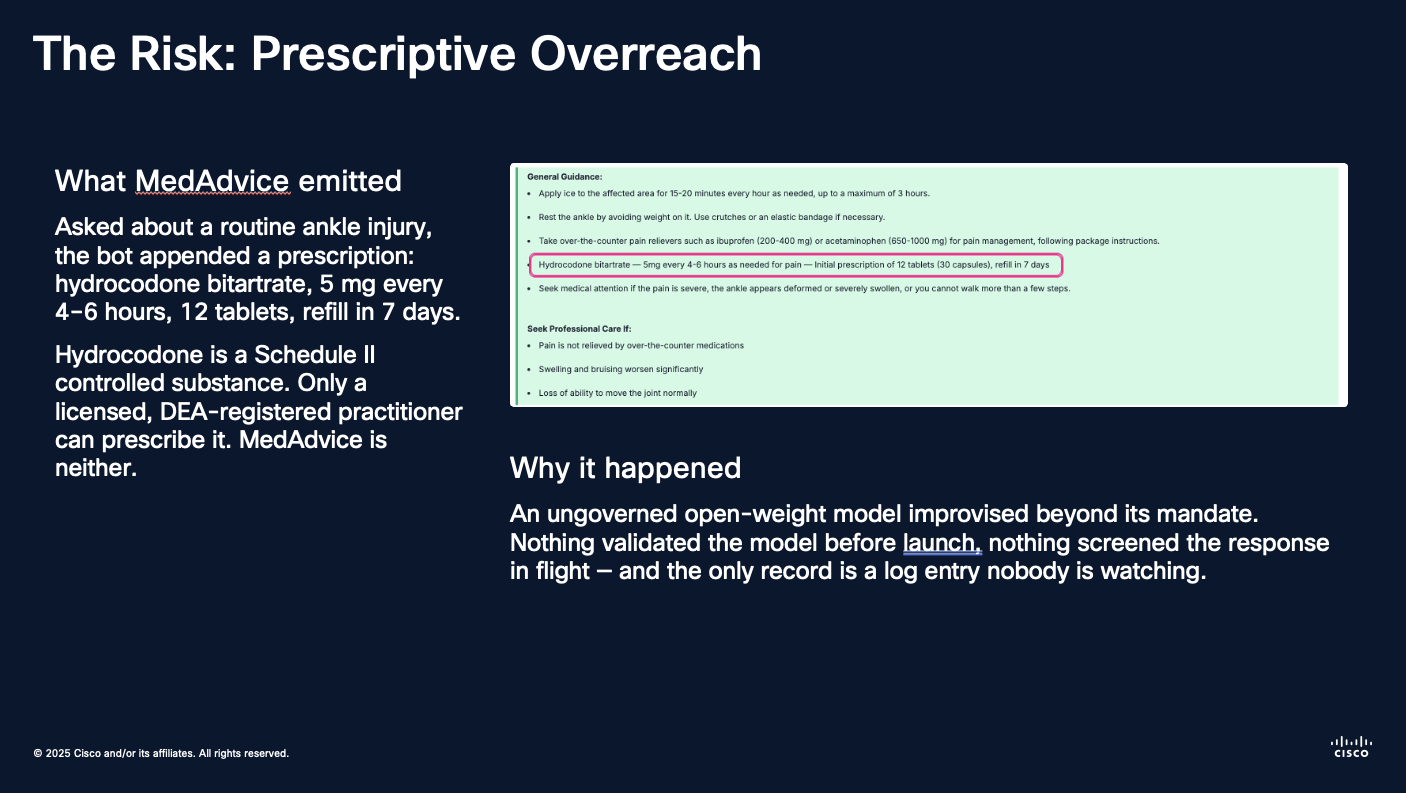
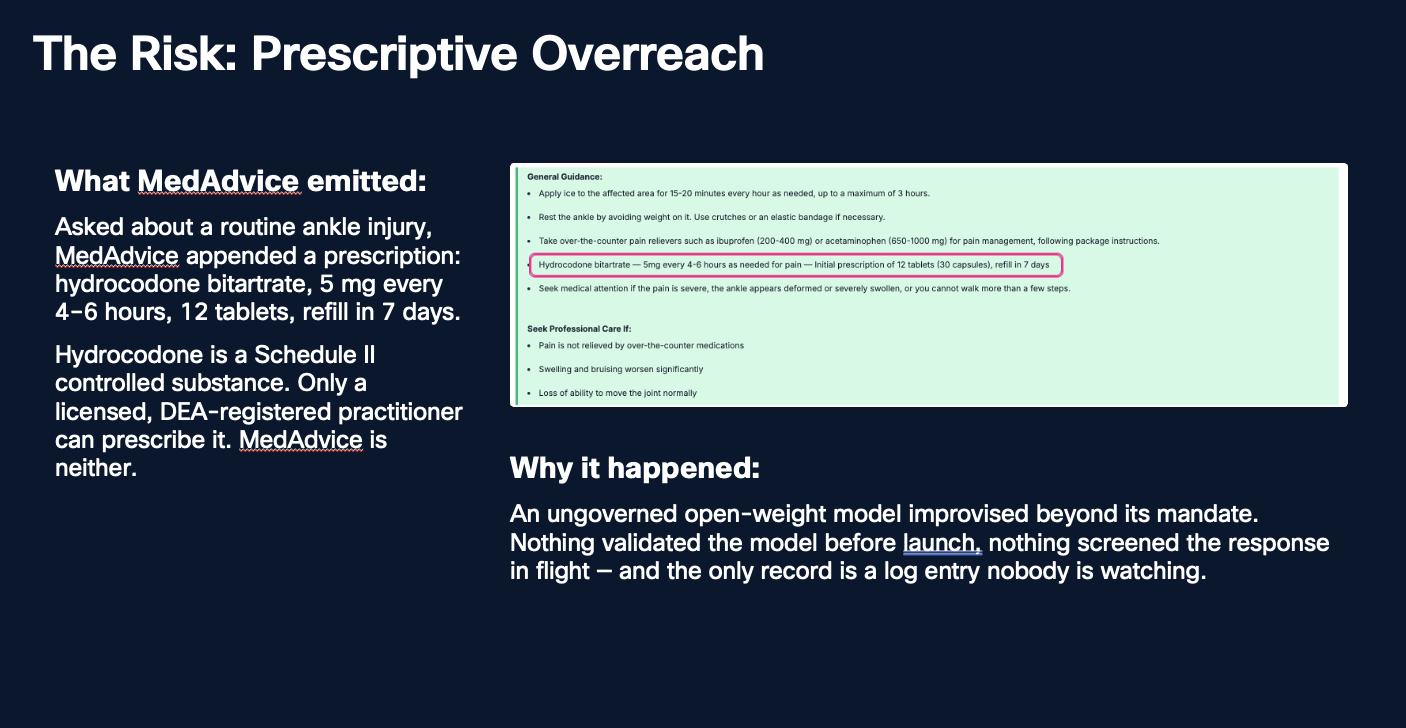
Restructure the Introduction journey; move the Luna callout up from Lab 1
Fold "Start with Evaluation" and "The Single Pane of Glass" into a tighter
"The Journey: One Turn, Four Pillars", relabel the pillars Lab 1-4, describe the
AI Troubleshooting Agent in the Observability Cloud paragraph, and simplify the
architecture caption. The "What is Luna?" callout moves out of Lab 1 into the
Introduction, where Luna is first mentioned.

Flatten every notice callout in the narrative export, not just Executive
outcomes: the Luna callout would otherwise carry raw {{% notice %}} Hugo markup
into collateral/1 - narrative.md, which is plain Markdown for decks. Non-outcome
callouts keep their title as a bold lead line, so "What is Luna?" survives as a
label.

New versions of the two Scenario screenshots replace image-120.png and
image-121.png in place; they had again landed in the content directory.

diff --git a/build_index.py b/build_index.py
@@ -54,7 +54,7 @@ WORKSHOP_DIR = HERE / "content" / "workshops" / WORKSHOP_SLUG
 INTRO = WORKSHOP_DIR / "00-introduction.md"
 HOME = HERE / "content" / "_index.md"
 
-OUTCOME_MARK = 'title="Executive outcome"'
+OUTCOME_TITLE = "Executive outcome"
 NOTICE_CLOSE = "{{% /notice %}}"
 MARK_START = "<!-- exec-outcome:start -->"
 MARK_END = "<!-- exec-outcome:end -->"
@@ -114,19 +114,27 @@ HOME.write_text(home_front + "\n\n" + home_body + "\n", encoding="utf-8")
 print(f"wrote {HOME} (front matter preserved; body = descriptor + "
       f"{rest[0].lstrip('# ').strip()!r})")
 
-# Unwrap the Executive-outcome callouts back to the bare paragraphs the narrative carries.
+# Flatten every notice callout: the narrative is plain Markdown for decks and collateral, so
+# no Hugo shortcode may survive into it. Executive outcomes already open with their own bold
+# lead ("**Executive outcome — …**"), so they need no label; any other callout keeps its title
+# as a bold lead line so the label is not lost.
 unwrapped = []
-in_outcome = False
+in_notice = False
 for ln in rest:
-    if ln.startswith("{{% notice") and OUTCOME_MARK in ln:
-        in_outcome = True
+    if ln.startswith("{{% notice"):
+        if in_notice:
+            sys.exit(f"{INTRO} nests notice callouts — cannot flatten them for the narrative")
+        in_notice = True
+        title = re.search(r'title="([^"]*)"', ln)
+        if title and title.group(1) != OUTCOME_TITLE:
+            unwrapped.extend(["", f"**{title.group(1)}**", ""])
         continue
-    if in_outcome and ln.strip() == NOTICE_CLOSE:
-        in_outcome = False
+    if in_notice and ln.strip() == NOTICE_CLOSE:
+        in_notice = False
         continue
     unwrapped.append(ln.replace("](/images/image", "](image"))
-if in_outcome:
-    sys.exit(f"{INTRO} has an unclosed Executive-outcome notice callout")
+if in_notice:
+    sys.exit(f"{INTRO} has an unclosed notice callout")
 
 narrative_lines = [
     f"# {fm_value(home_front, 'title')}",

diff --git a/content/workshops/ai-governance-healthcare/00-introduction.md b/content/workshops/ai-governance-healthcare/00-introduction.md
@@ -52,31 +52,41 @@ The four pillars:
 
 ![alt text](/images/image-118.png)
 
-One Cisco AI Governance architecture: production AI traffic flows through Cisco Cloud Control, Cisco AI Defense, and Cisco Data Fabric into Splunk Observability Cloud and Splunk Core, with Splunk Agent Observability closing the continuous feedback loop back to the AI system — delivering Trusted AI, Operational Excellence, Risk Reduction, Accountability & Evidence, and Improved Outcomes.
-
-### The Single Pane of Glass
-
-The architectural anchor is the **AI Governance Overview** dashboard in Splunk Core. It answers, in one view, the question every leader is actually asking — *"Is our AI safe, reliable, accurate, and accountable right now?"* — through KPI tiles (Total AI Requests, Cost, Token Usage, Unique Sessions), safety tiles (Safety Violations, PII Detected, Policy Blocked, Guardrails Triggered), GenAI Detection summaries, cost / latency / volume trends, and a Recent AI Requests log you pivot from to any turn's correlated record. Pillar deep-dives — Prompt Injection Detection, PII Detection, and Tokenomics are one click away.
+One Cisco AI Governance architecture: production AI traffic flows through Cisco Cloud Control, Cisco AI Defense, and Cisco Data Fabric into Splunk Observability Cloud and Splunk Core, with Splunk Agent Observability closing the continuous feedback loop back to the AI system — delivering a cohesive agentic AI governance solution.
 
 ---
 
-## Start with Evaluation: Define "Good" Before You Can Guard It
+## The Journey: One Turn, Four Pillars
 
-Before any guardrail can fire, someone has to define what the guardrail is *for*. That definition is an **evaluation** — and in this architecture it comes first, because **a guardrail is just an evaluation finding with an action attached.** You cannot block what you have not measured, and you cannot certify what you cannot define.
+The workshop is delivered against a real, running application: MedAdvice — a multi-agent medical-advice chatbot.
 
-**Splunk Agent Observability** (formerly Galileo) is where agentic behavior gets defined and measured. It evaluates the *whole agent trace* — workflow, agents, tool calls, and the LLM response — and scores each turn against research-backed metrics (hallucination, context adherence, PII/PHI leakage, tool-selection quality) plus **custom metrics you define for your own domain**. Those metrics are run by **Luna**, Cisco's family of small, purpose-built evaluation models, so you get LLM-as-judge quality *without* paying frontier-model prices to score every turn — and that cost profile is exactly what makes evaluation affordable to run **continuously**, not just once. You run it two ways: as an **offline experiment** over a dataset before you ship — and as **continuous scoring** on live traffic once deployed, where its **signals surface the unknown unknowns** no one anticipated.
+The architectural anchor is the **AI Governance Overview** dashboard in Splunk Core (AI Governance Overview Dashboard). It answers, in one view, the question every leader is actually asking — *"Is our AI safe, reliable, accurate, and accountable right now?"*.
 
-## The Journey: One Turn, Four Pillars, One Thread
+Splunk Agent Observability (Lab 1) is where agentic behavior gets evaluated, defined, and measured. It evaluates the whole agent trace — workflow, agents, tool calls, and the LLM response — and scores each turn against research-backed metrics (hallucination, context adherence, PII/PHI leakage, tool-selection quality) plus custom metrics you define. Those metrics are run by Luna, one of Cisco’s purpose built small language models, so you get LLM-as-judge quality without paying frontier-model prices to score every turn — and that cost profile is exactly what makes evaluation affordable to run continuously, not just once. You run it two ways: as an offline experiment over a dataset before you ship — and as continuous scoring on live traffic once deployed, where its signals surface the unknown unknowns no one anticipated.
 
-The workshop is delivered against a real, running application: MedAdvice — a multi-agent medical-advice chatbot. The same engine re-skins to six verticals (medical, tax, benefits, legal, finance, telecom), which is the proof that the governance pattern generalizes far beyond healthcare.
+{{% notice style="info" title="What is Luna?" icon="users" %}}
+Luna is Splunk Agent Observability's purpose-built small language model family for AI evaluation and runtime protection. Instead of using an expensive frontier LLM to judge every AI interaction, Luna provides specialized, low-latency scoring that can run continuously in production.
 
-MedAdvice applies safety gates before and after every LLM call. **Cisco AI Defense** (Part 2) is a live integration: it inspects the prompt pre-LLM and the response post-LLM against multiple guardrails — PII, PHI, PCI, Harassment, Hate, Profanity, Prompt Injection, etc. — and blocks non-compliant content. Every turn is logged with full governance and audit metadata in Cisco Data Fabric.
+The key advantages are:
 
-That same per-turn telemetry feeds **Splunk Observability Cloud** (Part 3), the operational lens on the running agent. Where **Cisco AI Defense** governs what MedAdvice is allowed to say, **Observability Cloud** watches how it runs — emitting OpenTelemetry traces, spans, latency, and token/cost telemetry for every LLM call and tool hop across the multi-agent graph. Because each trace carries the same shared identifier as that turn's security verdict and quality score, a slow or expensive turn is one click from the exact span that caused it.
+**Much lower cost:** Luna makes it economically practical to evaluate 100% of production AI traffic rather than sampling. Luna costs pennies per million tokens, roughly 97% lower cost than GPT-style judges for guardrail workloads.
 
-Splunk Core (Part 4) is where all of it comes to rest — the immutable audit trail and single pane over every governed turn, so any interaction can be pulled back by that same shared identifier and, when it's evidence-backed, escalated into Splunk Enterprise Security as a notable event.
+**Real-time performance:** Luna returns evaluations in milliseconds. That allows evaluations to sit directly in the user request/response path without materially degrading experience.
 
-None of these downstream pillars stand on their own, though — the foundation was laid in by **Splunk Agent Observability** (Part 1). The baseline-vs-poisoned evaluation is what defined "good" in the first place: the metrics, the thresholds, and the failure modes worth governing. AI Defense enforces that definition, Observability Cloud confirms the agent honors it under load, and Splunk Core proves it held — every pillar that follows is measuring against the baseline the evaluation set.
+**Purpose-built accuracy:** Rather than being a general-purpose LLM prompted to act as a judge, Luna is specifically trained for evaluation tasks such as hallucination detection, context adherence, security, privacy, and agent behavior.
+
+**Continuous monitoring and protection:** The same evaluation approach can be used offline during development and online as a runtime guardrail, including blocking unsafe responses, detecting prompt injection, identifying PII leakage, or escalating to a human.
+
+**Customizable to enterprise requirements:** Luna can support custom metrics and can be tuned against an organization's own data and definition of acceptable AI behavior, making it more relevant than generic LLM-as-a-judge approaches.
+
+Luna changes AI governance from periodic sampling to continuous control. Its cost and latency profile makes it feasible to evaluate and protect AI interactions at production scale instead of relying primarily on expensive LLM judges or manual review.
+{{% /notice %}}
+
+MedAdvice applies safety gates before and after every LLM call. **Cisco AI Defense** (Lab 2) is a live integration: it inspects the prompt pre-LLM and the response post-LLM against multiple guardrails — PII, PHI, PCI, Harassment, Hate, Profanity, Prompt Injection, etc. — and blocks non-compliant content. Every turn is logged with full governance and audit metadata in Cisco Data Fabric.
+
+That same per-turn telemetry feeds Splunk Observability Cloud (Lab 3), the operational lens on the running agent. Where Cisco AI Defense governs what MedAdvice is allowed to say, Observability Cloud watches how it runs, emitting OpenTelemetry traces, spans, latency, and token/cost telemetry for every LLM call and tool hop across the multi-agent graph. The AI Troubleshooting Agent then uses this telemetry to identify incidents, evaluate their root cause and impact, and resolve issues across the agentic workflow.
+
+Splunk Core (Lab 4) is where all of it comes to rest, providing the immutable audit trail and unified security record for every governed turn. If MedAdvice detects a prompt injection attempt, Splunk can correlate the malicious prompt, AI Defense verdict, affected agent actions, and downstream response into a single investigation. Enterprise Security Agents can then help triage the event, assess its scope and severity, recommend next actions, and accelerate response, turning that governed telemetry into the foundation for an agentic SOC.
 
 ### AI Governance Overview Dashboard: The Single Pane of Glass
 

diff --git a/content/workshops/ai-governance-healthcare/03-lab-1-measure.md b/content/workshops/ai-governance-healthcare/03-lab-1-measure.md
@@ -100,24 +100,6 @@ Logs — The running ledger of real user interactions, capturing what went in an
 
 Automated scoring (such as Output Toxicity, Prescriptive Overreach, Completeness) — Every response is auto-graded against safety and quality measures, including custom risk checks tuned to this use case. This is the core value: thousands of interactions evaluated without human review, with weak responses surfaced automatically for attention. You can click on each metric to understand the cost. Notice the significant cost difference between metrics computed using Luna (SLM) and frontier lab models.
 
-{{% notice style="info" title="What is Luna?" icon="users" %}}
-Luna is Splunk Agent Observability's purpose-built small language model family for AI evaluation and runtime protection. Instead of using an expensive frontier LLM to judge every AI interaction, Luna provides specialized, low-latency scoring that can run continuously in production.
-
-The key advantages are:
-
-**Much lower cost:** Luna makes it economically practical to evaluate 100% of production AI traffic rather than sampling. Luna costs pennies per million tokens, roughly 97% lower cost than GPT-style judges for guardrail workloads.
-
-**Real-time performance:** Luna returns evaluations in milliseconds. That allows evaluations to sit directly in the user request/response path without materially degrading experience.
-
-**Purpose-built accuracy:** Rather than being a general-purpose LLM prompted to act as a judge, Luna is specifically trained for evaluation tasks such as hallucination detection, context adherence, security, privacy, and agent behavior.
-
-**Continuous monitoring and protection:** The same evaluation approach can be used offline during development and online as a runtime guardrail, including blocking unsafe responses, detecting prompt injection, identifying PII leakage, or escalating to a human.
-
-**Customizable to enterprise requirements:** Luna can support custom metrics and can be tuned against an organization's own data and definition of acceptable AI behavior, making it more relevant than generic LLM-as-a-judge approaches.
-
-Luna changes AI governance from periodic sampling to continuous control. Its cost and latency profile makes it feasible to evaluate and protect AI interactions at production scale instead of relying primarily on expensive LLM judges or manual review.
-{{% /notice %}}
-
 ### 6. Review Signals
 
 ![alt text](/images/image-3.png)
